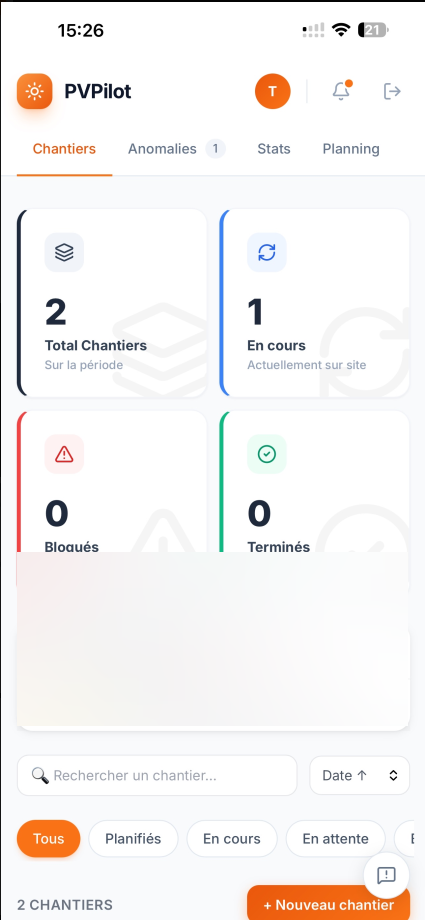
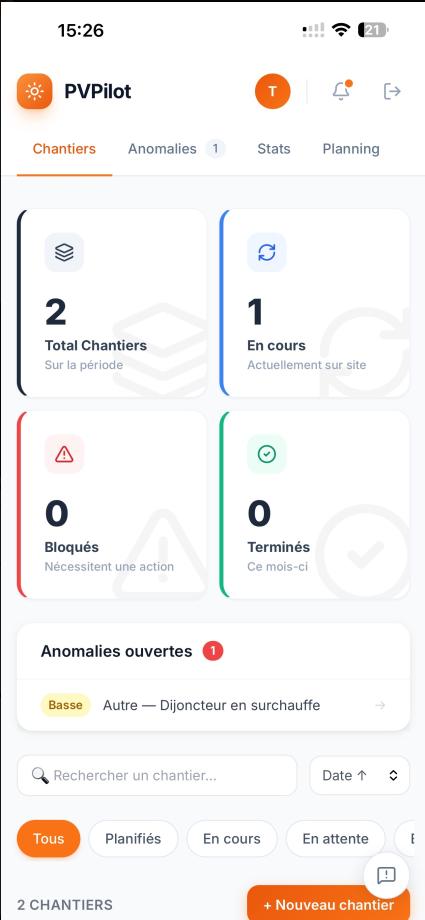
Fix screen-dashboard : suppression floutage inutile (aucune donnée sensible)

diff --git a/blur_screens.py b/blur_screens.py
@@ -79,9 +79,9 @@ process("image-1778852412956.png", "screen-etapes.png", [
 ])
 
 # ── Dashboard mobile ──────────────────────────────────────────────────────────
-# Zones : section entiere "Anomalies ouvertes" + texte anomalie
-process("image-1778852420710.png", "screen-dashboard.png", [
-    (0.04, 0.60, 0.96, 0.79),   # "Anomalies ouvertes" + "Dijoncteur en surchauffe"
-])
+# Pas de donnée sensible - copie directe
+shutil.copy(os.path.join(SRC, "image-1778852420710.png"),
+            os.path.join(DST, "screen-dashboard.png"))
+print("screen-dashboard.png - copie tel quel")
 
 print("\nTous les screens traites et copies dans public/")
